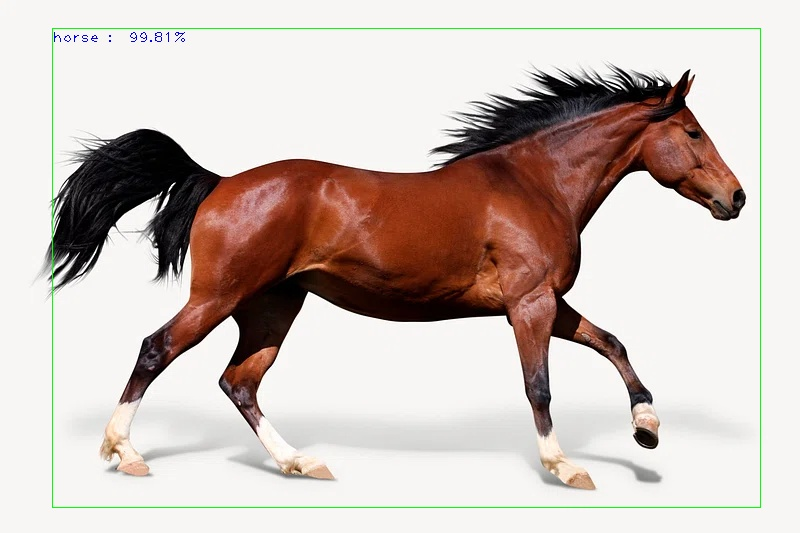
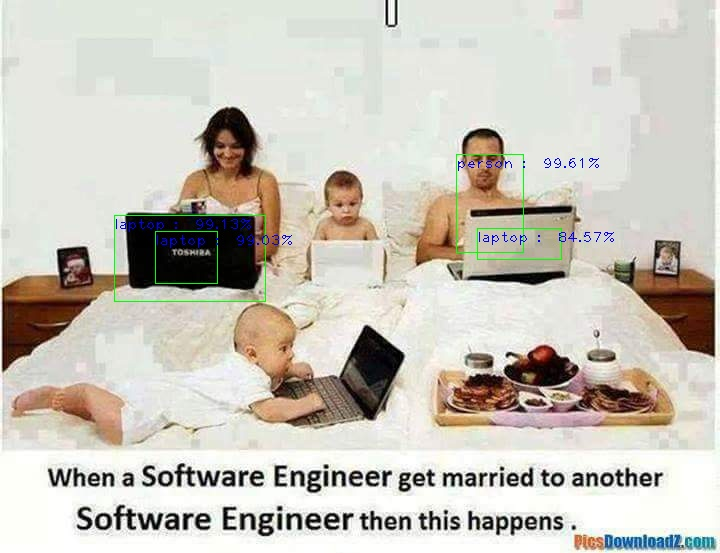
made the function separate from initialization for successive calls

diff --git a/detector/src/detect_objects.py b/detector/src/detect_objects.py
@@ -1,51 +1,38 @@
 from imageai.Detection import ObjectDetection
 import os
-import sys
+import time
 
-def detect_object(image_path, object_name):
-    # Get the current working directory
-    execution_path = os.getcwd()
+class ObjectDetectionModel:
+    def __init__(self, object_names):
+        self.execution_path = os.getcwd()
+        self.detector = ObjectDetection()
+        self.detector.setModelTypeAsTinyYOLOv3()
+        self.detector.setModelPath(os.path.join(self.execution_path, "tiny-yolov3.pt"))
+        self.detector.loadModel()
+        self.custom_objects = self.detector.CustomObjects(**{name: True for name in object_names})
 
-    # Initialize the ObjectDetection object
-    detector = ObjectDetection()
-    
-    # Set model type to TinyYOLOv3
-    detector.setModelTypeAsTinyYOLOv3()
-    
-    # Set model path to the downloaded TinyYOLOv3 model
-    detector.setModelPath(os.path.join(execution_path, "tiny-yolov3.pt"))
-    
-    # Load the model
-    detector.loadModel()
+    def detect_objects(self, image_path):
+        start_time = time.time()
+        detections = self.detector.detectObjectsFromImage(
+            custom_objects=self.custom_objects,
+            input_image=image_path,
+            output_image_path=os.path.join(self.execution_path, "detected_image.jpg"),
+            minimum_percentage_probability=30
+        )
+        detection_time = time.time() - start_time
+        detected_objects = {eachObject["name"] for eachObject in detections}
+        return detected_objects, detection_time
 
-    # Set custom objects for detection
-    custom_objects = detector.CustomObjects(**{object_name: True})
-    
-    # Perform object detection
-    detections = detector.detectObjectsFromImage(
-        custom_objects=custom_objects,
-        input_image=image_path,
-        output_image_path=os.path.join(execution_path, "detected_image.jpg"),
-        minimum_percentage_probability=30
-    )
-
-    # Check if the specified object is detected
-    for eachObject in detections:
-        if eachObject["name"] == object_name:
-            return "yes"
-    return "no"
-
+# Example usage:
 if __name__ == "__main__":
-    # Check if the correct number of arguments are provided
-    if len(sys.argv) != 3:
-        print("Usage: python detect_objects.py <image_path> <object_name>")
+    import sys
+    if len(sys.argv) < 3:
+        print("Usage: python detect_objects.py <image_path> <object_name_1> [<object_name_2> ...]")
     else:
-        # Get image path and object name from command line arguments
         image_path = sys.argv[1]
-        object_name = sys.argv[2]
-        
-        # Run the object detection
-        result = detect_object(image_path, object_name)
-        
-        # Print the result
-        print(result)
+        object_names = sys.argv[2:]
+        model = ObjectDetectionModel(object_names)
+        results, detection_time = model.detect_objects(image_path)
+        detection_results = {name: (name in results) for name in object_names}
+        print(f"Detection Results: {detection_results}")
+        print(f"Detection Time: {detection_time} seconds")
